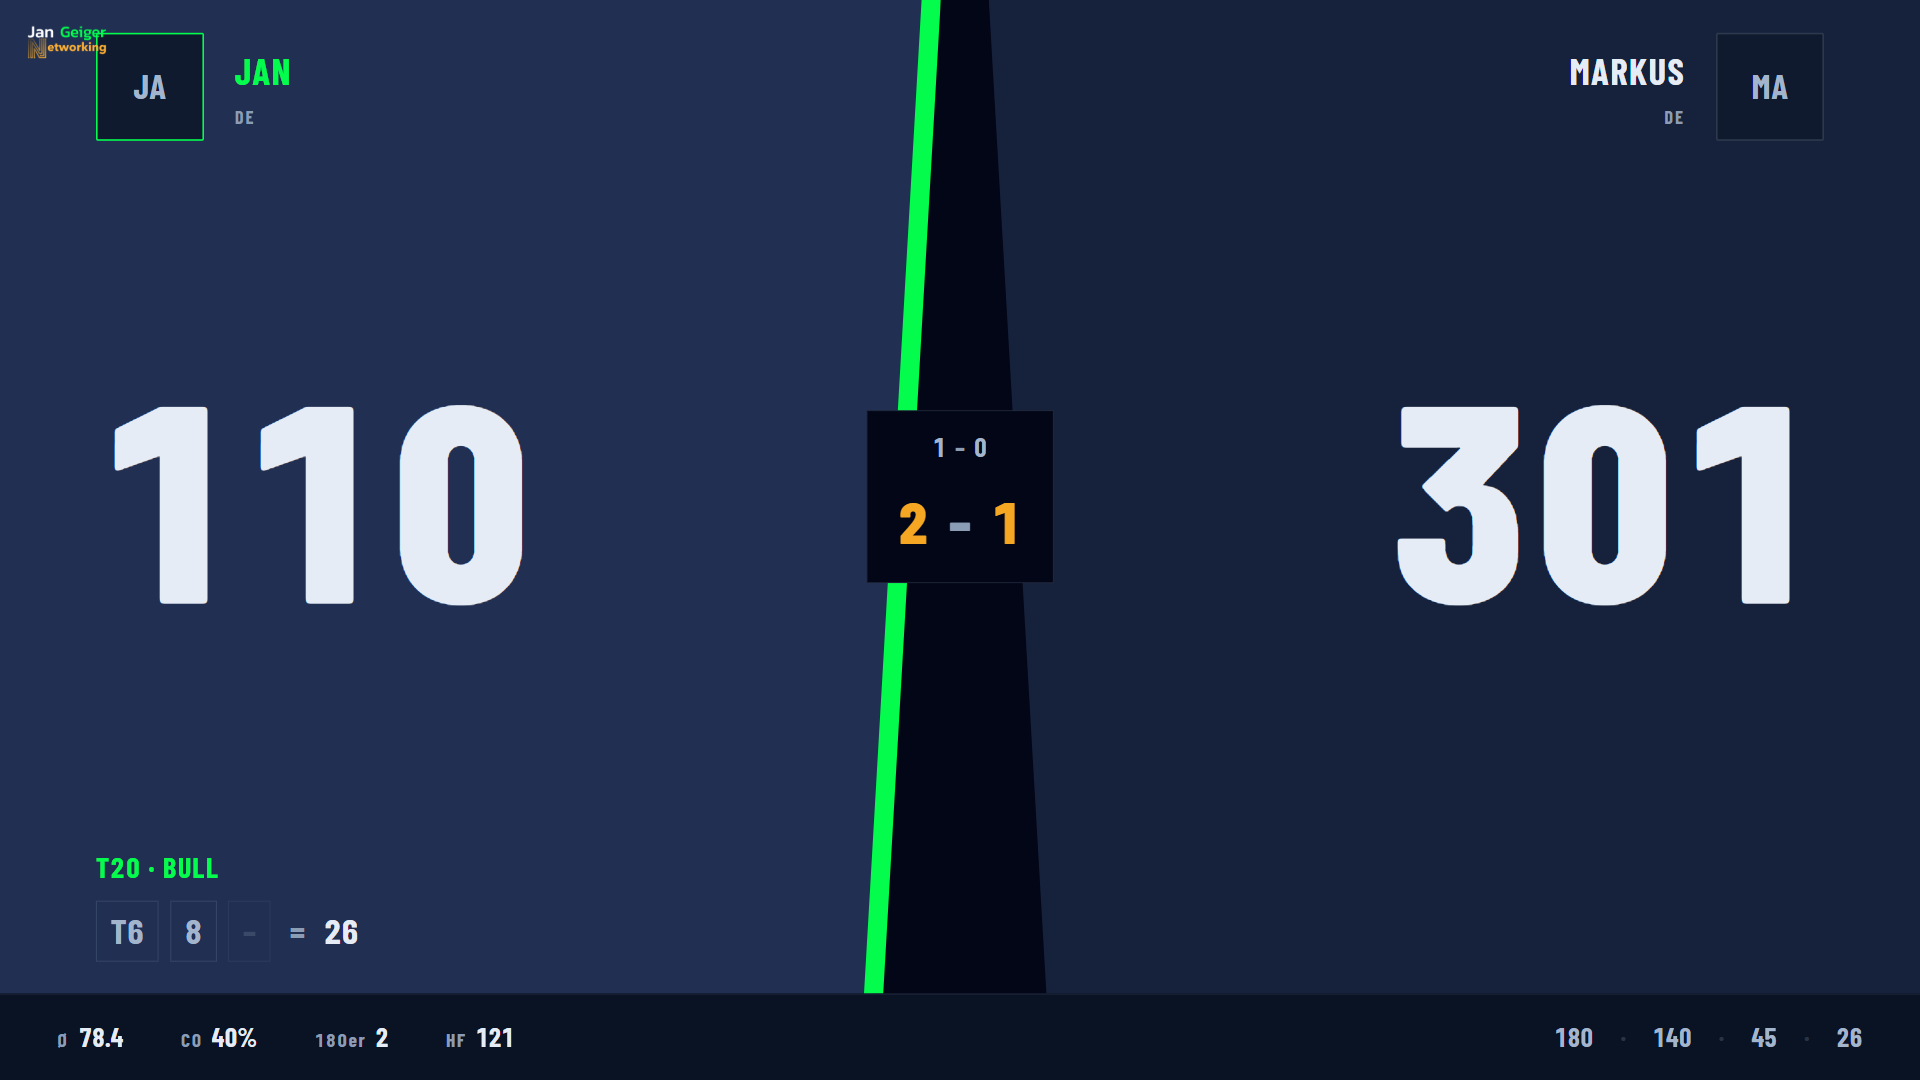
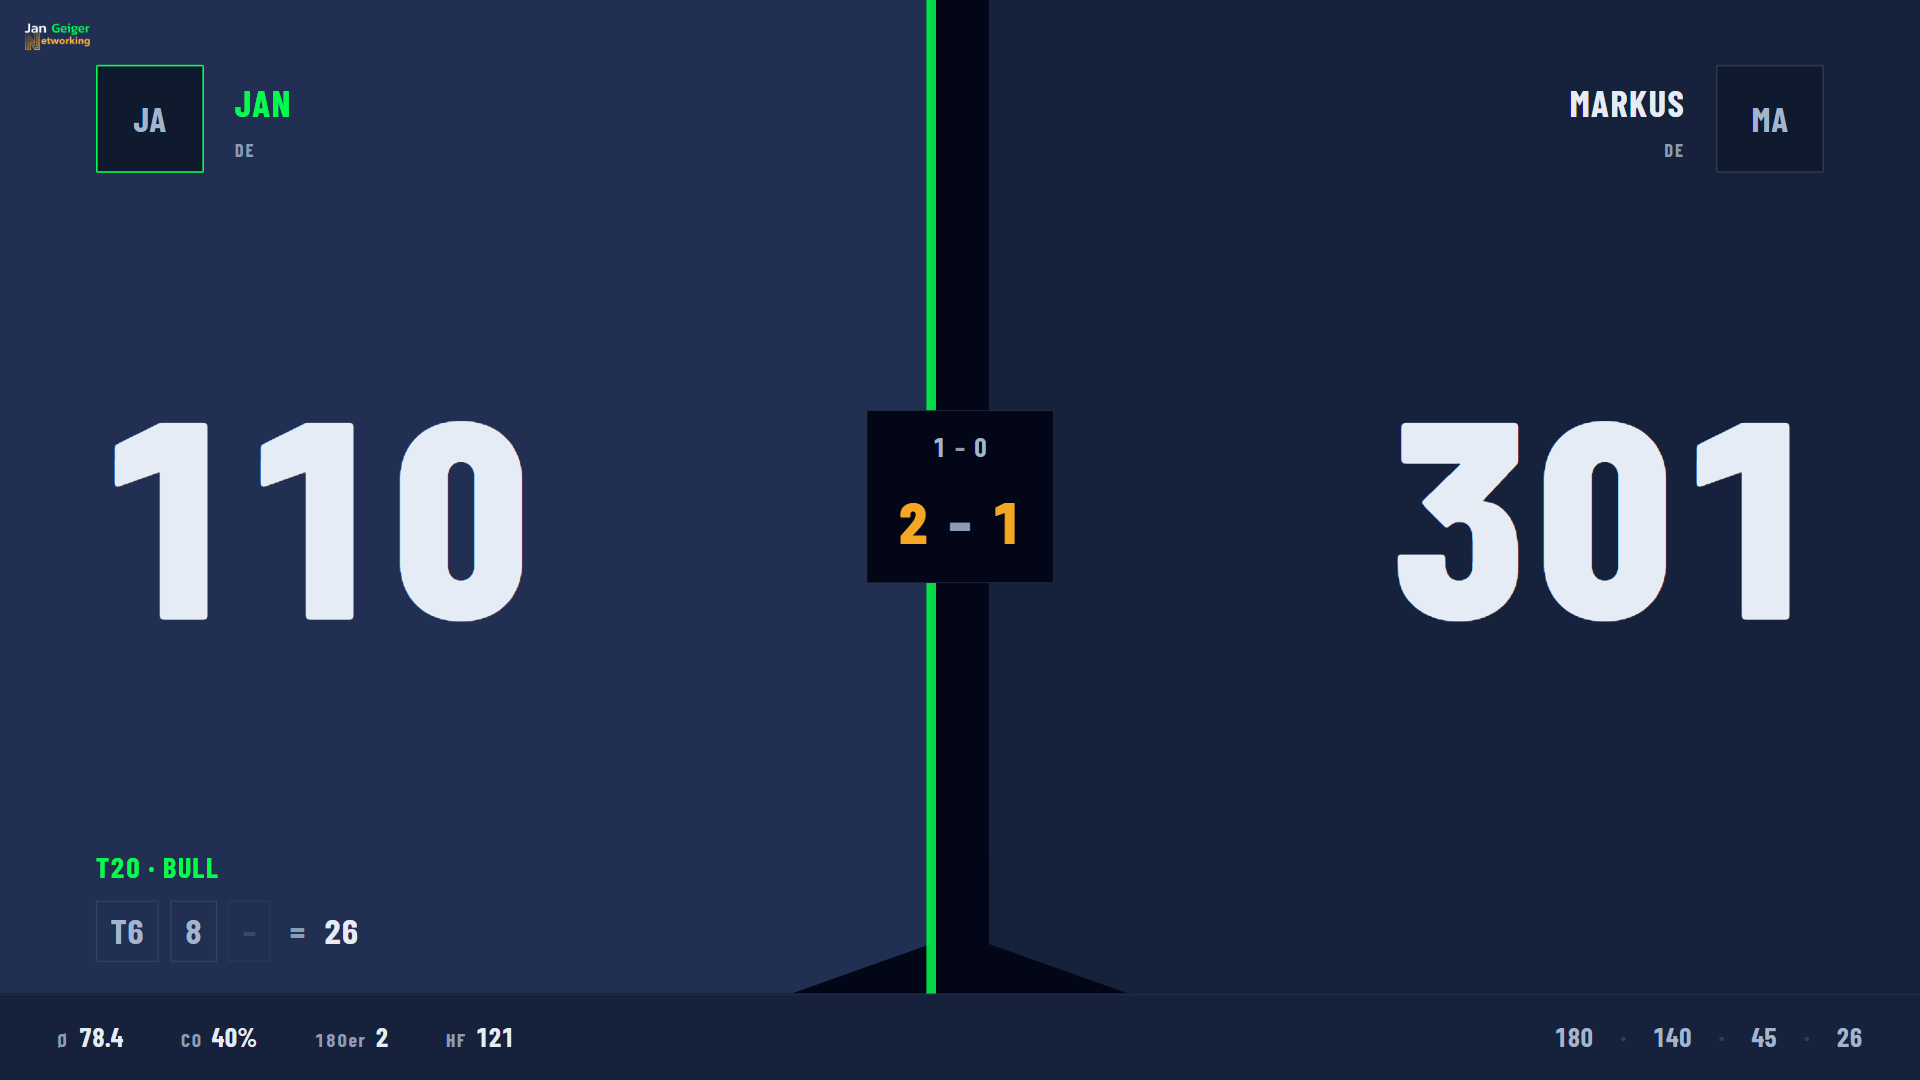
fix: durchgehenden Keil durch gerade Fuge und Ecken-Anschnitt ersetzen
Der volle Keil-Zuschnitt in der Bildmitte wurde trotz engerem
Zwischenraum und helleren Tafeln weiter als dominierender schwarzer
Turm wahrgenommen - die Idee selbst trug nicht, nicht ihre vorherige
Umsetzung. Ersetzt durch:

- Gerade, senkrechte Fuge zwischen den Tafeln (--zs-fuge: 3vw, unter
  der 4%-Grenze) statt eines durchgehenden schraegen Zwischenraums.
- Dartscheiben-Bezug wandert an die Unterkante: jede Tafel bekommt nur
  dort, wo sie auf die Statistikleiste trifft, einen flachen,
  gespiegelten Anschnitt (clip-path nur im letzten Hoehenabschnitt).
  Bewusst behalten, nicht verworfen - trug im Bildvergleich, ohne sich
  in den Vordergrund zu draengen.
- Signalkante ist jetzt ein gerader, senkrechter Balken an der
  Innenkante der aktiven Tafel ueber die volle Hoehe, wandert beim
  Spielerwechsel per left-Transition ueber die Fuge - derselbe eine
  bewegte Moment, nur ohne den vorherigen Leuchteffekt (Opacity
  reduziert, kein Glow-Filter mehr), damit sie nicht das hellste
  Element im Bild ist.
- Statistikleiste bekommt dieselbe Tafelfarbe (--zs-tafel) statt
  --jg-surface, damit sie erkennbar zu den Tafeln gehoert.
- Tafel-Kopfpolster oben erhoeht, damit sich Logo und Initialen-Kasten
  nicht mehr ueberlappen.

180er/High-Finish-Vollbild und Match-Gewinn unveraendert (bereits im
letzten Durchgang freigegeben). Alle vier Bildschirmfotos unter
docs/screenshots erneuert.

Claude-Session: https://claude.ai/code/session_01PijoJLZMjbmFmBLCMKsmFn

diff --git a/src/renderer/spectator/App.css b/src/renderer/spectator/App.css
@@ -46,24 +46,29 @@
 
 .bug {
   position: absolute;
-  top: 2.2vh;
-  left: 2.2vh;
-  height: 3.4vh;
+  top: 2vh;
+  left: 2vh;
+  height: 2.8vh;
   width: auto;
   z-index: 5;
 }
 
-/* ─── Zwei-Spieler-Reihe mit Keil-Zuschnitt ──────────────────────────
-   Die innere Kante jeder Karte laeuft schraeg auf die Mitte zu: an der
-   Kopfzeile (Schraubstollen des imaginaeren Scheiben-Mittelpunkts) fast
-   geschlossen, am unteren Rand deutlich geoeffnet - wie ein Dartscheiben-
-   Segment, das nach unten und aussen ausfaechert. */
+/* ─── Zwei-Spieler-Reihe ──────────────────────────────────────────────
+   Ein durchgehender Keil in der Bildmitte wurde ausprobiert und wieder
+   verworfen (siehe Bildschirmfotos vom ersten und zweiten Anlauf): sobald
+   der Zwischenraum ueber die volle Hoehe lief, wurde er zur dominierenden
+   Form statt einer Kante. Stattdessen jetzt eine gerade, schmale Fuge
+   (--zs-fuge, hoechstens 4% der Bildbreite) und der Dartscheiben-Bezug nur
+   noch als flacher, gespiegelter Anschnitt unten an der Tafel-Unterkante -
+   siehe .spielerkarte-links/-rechts. */
 
 .spielreihe {
   position: relative;
   flex: 1;
   display: flex;
   min-height: 0;
+  --zs-fuge: 3vw;
+  gap: var(--zs-fuge);
 }
 
 /* Intro: dieselbe Tafel wie das Scoreboard, faehrt aber einmalig gerichtet
@@ -106,7 +111,9 @@
   display: flex;
   flex-direction: column;
   background: var(--zs-tafel);
-  padding: 3vh 5vw;
+  /* Oben mehr Luft als unten: das JGN-Logo sitzt in der Bildecke und
+     ueberlappte bei knapperem Abstand mit dem Foto/Initialen-Kasten. */
+  padding: 6vh 5vw 3vh;
   position: relative;
 }
 
@@ -126,14 +133,16 @@
   background: var(--zs-tafel-aktiv);
 }
 
+/* Dartscheiben-Bezug, klein gehalten: nur die untere Innenecke ist flach
+   angeschnitten, gespiegelt zur Mitte hin, dort wo die Tafel auf die
+   Statistikleiste trifft. Zitiert die Keilform, ohne eine Flaeche in die
+   Bildmitte zu setzen. */
 .spielerkarte-links {
-  clip-path: polygon(0 0, 97% 0, 91% 100%, 0 100%);
-  padding-right: 6vw;
+  clip-path: polygon(0 0, 100% 0, 100% 95%, 85% 100%, 0 100%);
 }
 
 .spielerkarte-rechts {
-  clip-path: polygon(3% 0, 100% 0, 100% 100%, 9% 100%);
-  padding-left: 6vw;
+  clip-path: polygon(0 0, 100% 0, 100% 100%, 15% 100%, 0 95%);
   align-items: flex-end;
   text-align: right;
 }
@@ -313,20 +322,31 @@
   color: var(--jg-muted);
 }
 
-/* Die eine bewegte Signalkante: zeichnet die geschertem Innenkante der
-   aktiven Tafel nach (siehe SIGNALKANTE_LINKS/RECHTS in App.tsx, muss zum
-   Keil-Zuschnitt oben passen) und faehrt bei jedem Wechsel per
-   clip-path-Uebergang quer ueber die Mitte - kraeftig genug, um sie aus
-   einigen Metern Entfernung zu sehen, aber ohne dass sonst etwas auf dem
-   Screen mitzappelt. */
+/* Die eine bewegte Signalkante: ein gerader, senkrechter Balken an der
+   Innenkante der aktiven Tafel ueber deren volle Hoehe. Beim Spielerwechsel
+   wandert genau dieser Balken per CSS-Transition (left) quer ueber die Fuge
+   zur anderen Seite - ein Objekt, kein Ueberblenden. Zurueckhaltender als
+   ein erster Versuch mit Leuchteffekt: soll aus einigen Metern eindeutig
+   sein, aber nicht das hellste Element im Bild (dafuer sorgt schon die
+   riesige Rest-Punktzahl in --jg-text). */
 .signalkante {
   position: absolute;
-  inset: 0;
+  top: 0;
+  width: 0.5vw;
+  height: 100%;
   background: var(--jg-accent);
-  filter: drop-shadow(0 0 0.4vh var(--jg-accent-glow));
-  transition: clip-path 700ms var(--jg-ease);
+  opacity: 0.85;
+  transition: left 700ms var(--jg-ease);
   z-index: 3;
   pointer-events: none;
+}
+
+.signalkante-links {
+  left: calc(50% - (var(--zs-fuge) / 2) - 0.25vw);
+}
+
+.signalkante-rechts {
+  left: calc(50% + (var(--zs-fuge) / 2) - 0.25vw);
 }
 
 /* ─── Raster ab drei Spielern ─────────────────────────────────────── */
@@ -397,7 +417,10 @@
   gap: 3vw;
   padding: 0 3vw;
   border-top: 1px solid var(--jg-border-strong);
-  background: var(--jg-surface);
+  /* Dieselbe Flaeche wie die Tafeln (--zs-tafel), nicht --jg-surface -
+     sonst stand die Leiste als eigenstaendiger dunkler Streifen ohne
+     erkennbaren Bezug zu den Tafeln darueber. */
+  background: var(--zs-tafel);
   font-size: 2.4vh;
   color: var(--jg-text);
 }

diff --git a/src/renderer/spectator/App.tsx b/src/renderer/spectator/App.tsx
@@ -11,16 +11,6 @@ import './App.css'
 type BigMoment = Extract<Ueberlagerung, { art: 'bigMoment' }>
 type MatchWin = Extract<Ueberlagerung, { art: 'matchWin' }>
 
-// Muss zu den clip-path-Werten von .spielerkarte-links/-rechts in App.css
-// passen (Keil-Zuschnitt: 97%/91% der jeweils eigenen Tafelbreite). Die
-// Signalkante ist ein einzelnes Element, das genau diese geschertem
-// Innenkante nachzeichnet - links oder rechts, je nach activePlayerId.
-// Beide Polygone haben dieselbe Punktzahl, damit der Browser beim Wechsel
-// zwischen ihnen interpoliert statt hart umzuschalten: das ist die eine
-// bewegte Fahrt quer über die Mitte, kein zweites Element, keine Ueberblendung.
-const SIGNALKANTE_LINKS = 'polygon(48% 0%, 49% 0%, 46% 100%, 45% 100%)'
-const SIGNALKANTE_RECHTS = 'polygon(52% 0%, 51% 0%, 54% 100%, 55% 100%)'
-
 export function App() {
   // Vorfuehrmodus (?vorfuehrung in der Adresse) ersetzt window.app komplett -
   // der Screen laesst sich so ohne Hauptprozess begutachten, siehe
@@ -230,11 +220,12 @@ function ZweiSpielerReihe({
         currentThrowTotal={activePlayerId === spielerB.id ? currentThrowTotal : 0}
       />
 
-      {/* Der eine bewusste bewegte Moment im ganzen Screen: zeichnet die
-          geschertem Innenkante der aktiven Tafel nach und faehrt bei jedem
-          Wechsel per Formuebergang (clip-path) quer ueber die Mitte - ein
-          Objekt, kein Ueberblenden. */}
-      <div className="signalkante" style={{ clipPath: aktivIndex === 0 ? SIGNALKANTE_LINKS : SIGNALKANTE_RECHTS }} />
+      {/* Der eine bewusste bewegte Moment im ganzen Screen: ein gerader
+          Balken an der Innenkante der aktiven Tafel, der bei jedem Wechsel
+          per CSS-Transition (left) quer ueber die Fuge wandert - ein
+          Objekt, kein Ueberblenden. Die Positionen selbst stehen in
+          .signalkante-links/-rechts in App.css. */}
+      <div className={`signalkante ${aktivIndex === 0 ? 'signalkante-links' : 'signalkante-rechts'}`} />
     </div>
   )
 }
